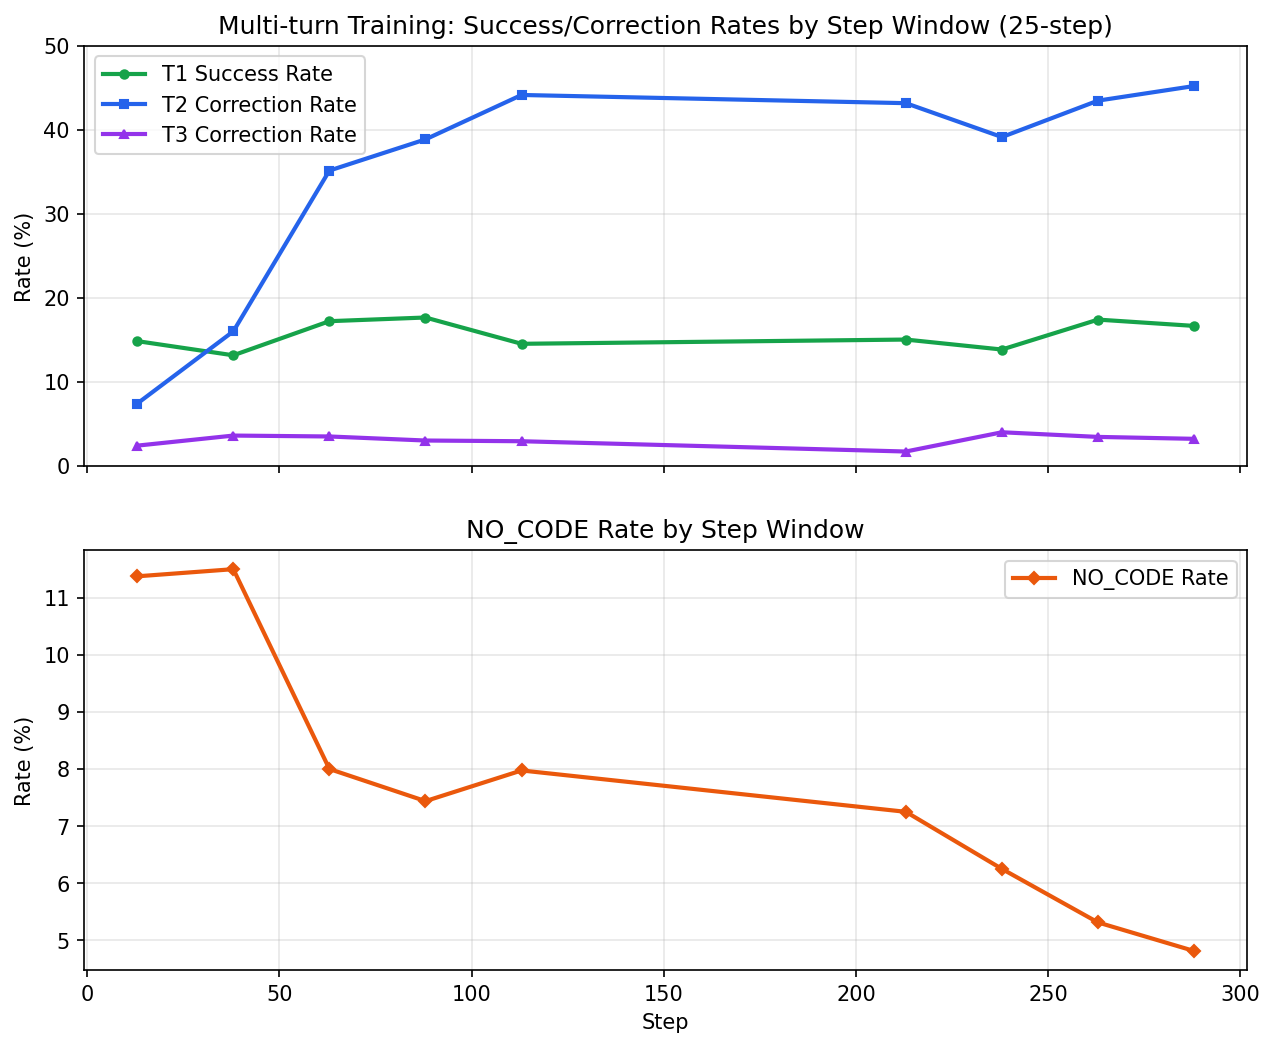
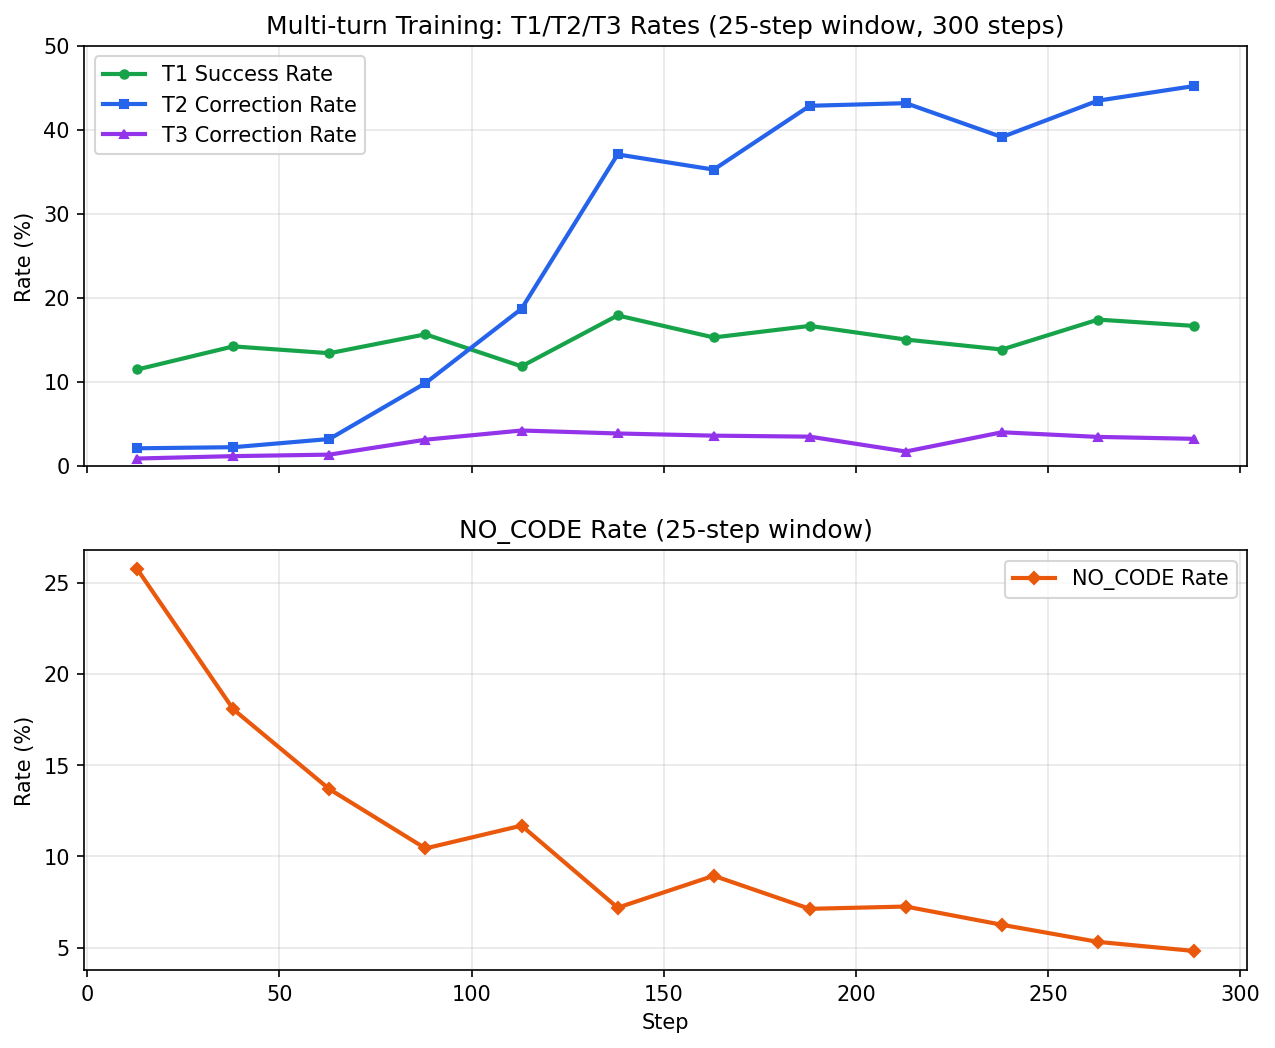
合并全量日志(step 1-300)重算纠错率 + 插入训练日志截图

diff --git a/scripts/plot_report.py b/scripts/plot_report.py
@@ -152,65 +152,64 @@ def plot_clip_ratio(multi, single):
 
 
 # ============================================================
-# 图 4: 多轮训练 T1/T2/T3 纠错率趋势（从日志计算）
+# 图 4: 多轮训练 T1/T2/T3 纠错率趋势（合并全部日志）
 # ============================================================
+def load_sorted(files):
+    data = []
+    for f in files:
+        with open(f) as fh:
+            for l in fh:
+                if l.strip():
+                    data.append(json.loads(l))
+    data.sort(key=lambda d: d['timestamp'])
+    return data
+
+
 def plot_correction_rates():
-    # 加载两个日志
-    with open("logs/multiturn_metrics_20260415_002828.jsonl") as f:
-        log1 = [json.loads(l) for l in f]
-    with open("logs/multiturn_metrics_20260415_140459.jsonl") as f:
-        log2 = [json.loads(l) for l in f]
+    # Phase1: step 1-60
+    p1 = load_sorted(["logs/multiturn_metrics_20260414_201023.jsonl",
+                       "logs/multiturn_metrics_20260414_201024.jsonl"])[:60*64]
+    # Phase2: step 61-200
+    p2 = load_sorted(["logs/multiturn_metrics_20260415_002827.jsonl",
+                       "logs/multiturn_metrics_20260415_002828.jsonl"])[:140*64]
+    # Phase3: step 201-300
+    p3 = load_sorted(["logs/multiturn_metrics_20260415_140459.jsonl"])
 
-    samples_per_step = 64
+    all_data = p1 + p2 + p3  # 19200 rows = 300 steps
 
-    def compute_rates(data, step_offset=0):
-        """计算每25步窗口的 T1/T2/T3 纠错率"""
-        windows = defaultdict(lambda: {"total": 0, "t1_ok": 0, "t2_att": 0, "t2_ok": 0,
-                                        "t3_att": 0, "t3_ok": 0, "nocode": 0})
-        for i, d in enumerate(data):
-            s = step_offset + i // samples_per_step + 1
-            w_start = ((s - 1) // 25) * 25 + 1
-            w = f"{w_start}-{w_start + 24}"
-            w_data = windows[w]
-            w_data["total"] += 1
+    window = 25
+    results = defaultdict(lambda: {"total": 0, "t1_ok": 0, "t2_att": 0, "t2_ok": 0,
+                                    "t3_att": 0, "t3_ok": 0, "nocode": 0})
+
+    for i in range(0, len(all_data) - 63, 64):
+        step = i // 64 + 1
+        batch = all_data[i:i+64]
+        w_start = ((step - 1) // window) * window + 1
+        w = f"{w_start}-{w_start + window - 1}"
+        r = results[w]
+        r["total"] += 64
+        for d in batch:
             turns = d.get("turns", [])
             if turns[0]["outcome"] == "SUCCESS":
-                w_data["t1_ok"] += 1
+                r["t1_ok"] += 1
             if len(turns) >= 2:
-                w_data["t2_att"] += 1
+                r["t2_att"] += 1
                 if turns[1]["outcome"] == "SUCCESS":
-                    w_data["t2_ok"] += 1
+                    r["t2_ok"] += 1
             if len(turns) >= 3:
-                w_data["t3_att"] += 1
+                r["t3_att"] += 1
                 if turns[2]["outcome"] == "SUCCESS":
-                    w_data["t3_ok"] += 1
+                    r["t3_ok"] += 1
             if d.get("exec_status") == "NO_CODE":
-                w_data["nocode"] += 1
-        return windows
+                r["nocode"] += 1
 
-    # 用续训日志（step 200-300，无重叠）
-    rates_200_300 = compute_rates(log2, step_offset=200)
-
-    # 用早期日志（step 1-225，有重叠但取 1-200）
-    rates_1_200 = compute_rates(log1[:200 * samples_per_step], step_offset=0)
-
-    # 合并
-    all_rates = {}
-    for w, d in rates_1_200.items():
-        w_start = int(w.split('-')[0])
-        if w_start <= 200:
-            all_rates[w] = d
-    for w, d in rates_200_300.items():
-        all_rates[w] = d
-
-    # 排序
-    sorted_windows = sorted(all_rates.keys(), key=lambda x: int(x.split('-')[0]))
+    sorted_windows = sorted(results.keys(), key=lambda x: int(x.split('-')[0]))
 
     steps_mid = []
     t1_rates, t2_rates, t3_rates, nocode_rates = [], [], [], []
 
     for w in sorted_windows:
-        d = all_rates[w]
+        d = results[w]
         if d["total"] == 0:
             continue
         start = int(w.split('-')[0])
@@ -226,7 +225,7 @@ def plot_correction_rates():
     ax1.plot(steps_mid, t2_rates, 's-', color='#2563eb', label='T2 Correction Rate', linewidth=2, markersize=4)
     ax1.plot(steps_mid, t3_rates, '^-', color='#9333ea', label='T3 Correction Rate', linewidth=2, markersize=4)
     ax1.set_ylabel('Rate (%)')
-    ax1.set_title('Multi-turn Training: Success/Correction Rates by Step Window (25-step)')
+    ax1.set_title('Multi-turn Training: T1/T2/T3 Rates (25-step window, 300 steps)')
     ax1.legend()
     ax1.set_ylim(0, 50)
     ax1.grid(True, alpha=0.3)
@@ -234,7 +233,7 @@ def plot_correction_rates():
     ax2.plot(steps_mid, nocode_rates, 'D-', color='#ea580c', label='NO_CODE Rate', linewidth=2, markersize=4)
     ax2.set_xlabel('Step')
     ax2.set_ylabel('Rate (%)')
-    ax2.set_title('NO_CODE Rate by Step Window')
+    ax2.set_title('NO_CODE Rate (25-step window)')
     ax2.legend()
     ax2.grid(True, alpha=0.3)
 

diff --git a/REPORT.md b/REPORT.md
@@ -177,19 +177,22 @@
 
 | steps | T1 成功率 | T2 纠错率 | T3 纠错率 | NO_CODE% | 总通过率 | mean reward |
 |-------|---------|---------|---------|---------|---------|-----------|
-| 1-25 | 14.9% | **7.4%** | 2.4% | 11.4% | 21.9% | 0.093 |
-| 26-50 | 13.2% | 16.0% | 3.6% | 11.5% | 27.4% | 0.135 |
-| 51-75 | 17.2% | 35.2% | 3.5% | 8.0% | 45.1% | 0.327 |
-| 76-100 | 17.7% | 38.9% | 3.0% | 7.4% | 48.1% | 0.359 |
-| 101-124 | 14.6% | 44.2% | 3.0% | 8.0% | 49.9% | 0.365 |
-| 201-225 | 15.1% | 43.2% | 1.7% | 7.2% | 49.2% | 0.367 |
-| 226-250 | 13.9% | 39.2% | 4.0% | 6.2% | 47.0% | 0.355 |
-| 251-275 | 17.4% | 43.5% | 3.5% | 5.3% | 52.4% | 0.416 |
-| 276-300 | 16.7% | **45.2%** | 3.2% | 4.8% | 53.4% | 0.429 |
+| 1-25 | 11.5% | **2.1%** | 0.9% | 25.8% | 13.4% | -0.127 |
+| 26-50 | 14.2% | 2.2% | 1.2% | 18.1% | 16.5% | -0.020 |
+| 51-75 | 13.4% | 3.2% | 1.4% | 13.7% | 16.7% | +0.024 |
+| 76-100 | 15.7% | 9.9% | 3.1% | 10.4% | 25.0% | +0.129 |
+| 101-125 | 11.9% | 18.7% | 4.2% | 11.7% | 28.6% | +0.140 |
+| 126-150 | 17.9% | 37.1% | 3.9% | 7.2% | 47.4% | +0.356 |
+| 151-175 | 15.3% | 35.3% | 3.6% | 8.9% | 43.7% | +0.302 |
+| 176-200 | 16.7% | 42.9% | 3.5% | 7.1% | 50.6% | +0.382 |
+| 201-225 | 15.1% | 43.2% | 1.7% | 7.2% | 49.2% | +0.367 |
+| 226-250 | 13.9% | 39.2% | 4.0% | 6.2% | 47.0% | +0.355 |
+| 251-275 | 17.4% | 43.5% | 3.5% | 5.3% | 52.4% | +0.416 |
+| 276-300 | 16.7% | **45.2%** | 3.2% | 4.8% | 53.4% | +0.429 |
 
-> 注：step 1-225 日志实际包含 step 1-124 的逐样本数据（7980 条），step 125-200 的日志因训练重启丢失。step 201-300 为续训日志（6400 条，无缺失）。wandb 步级指标（reward、KL 等）覆盖完整 300 步，不受日志缺失影响。
+> 注：step 1-60 的日志来自 `20260414_201023+201024`（两个 Ray worker，3968 条），step 61-200 来自 `20260415_002827+002828`（10560 条，与 step 61-62 有少量重叠，已去重），step 201-300 来自续训 `20260415_140459`（6400 条）。通过 wandb reward 均值交叉校验确认对齐。
 
-**关键观察：T1 成功率在训练全程基本不变（10-19%），提升主要来自 T2 纠错能力。** T2 纠错率从 7% 稳步提升到 45%，说明模型确实在学会"看到错误反馈后修正代码"。但 T3 纠错率始终很低（1.7%-4.0%），没有上升趋势——T2 都没修好的题，第三轮也很难修好。
+**关键观察：T1 成功率在训练全程基本不变（10-18%），提升主要来自 T2 纠错能力。** T2 纠错率从初期的 2% 稳步提升到 45%，经历了三个阶段：step 1-50 缓慢（2%），step 51-150 快速爬升（3%→37%），step 150+ 趋于稳定（35-45%）。T3 纠错率始终很低（0.9%-4.2%），没有明显上升趋势。
 
 ![Multi-turn Training: T1/T2/T3 Correction Rates](report_figures/correction_rates.png)
 
@@ -343,6 +346,10 @@
 | 13 | LoRA QKV 权重名 `base_layer.` 前缀 | vLLM load_weights 失败 | patch_vllm.py 正则替换 |
 | 21 | `PYTORCH_CUDA_ALLOC_CONF=expandable_segments:True` | vLLM sleep mode 启动崩溃 | 禁止设置此变量 |
 | 25 | FSDP + LoRA 下 `disable_adapter()` 失效 | kl_loss=0，无正则化 | 独立 ref 模型 |
+
+**训练过程日志示例：**
+
+![Training Log](report_figures/train_log.png)
 
 ## 项目文件结构
 
